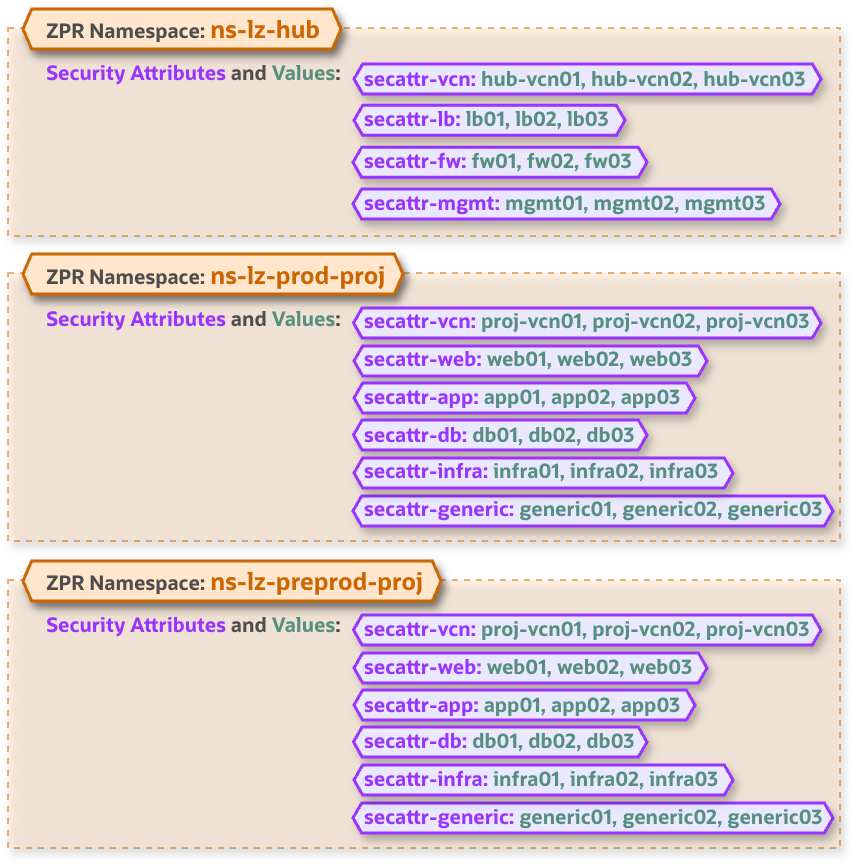
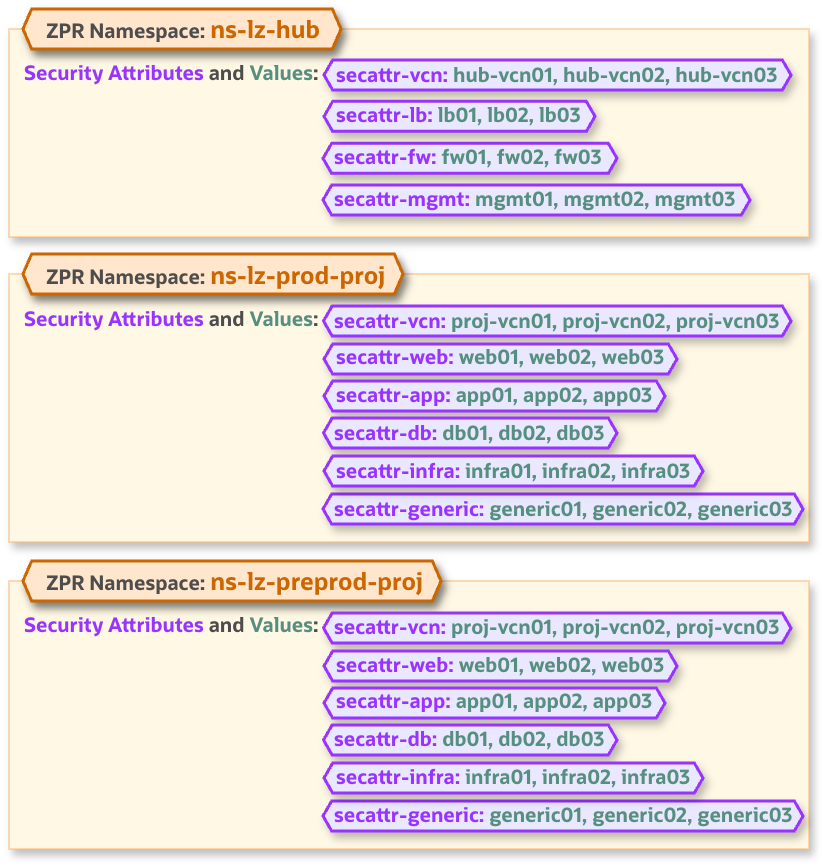
update

diff --git a/readme.md b/readme.md
@@ -39,19 +39,33 @@ Routing, Security Lists or NSGs, and OCI Network Firewall allow the traffic, but
 
 ### ZPR addon configuration and structure
 
+A ZPR Security Attribute Namespace is a logical container for a set of related security attributes. Namespaces help organize security attributes and provide a clear administrative boundary for managing and securing them.
 
-<img src="./zpr_structure.png" width="500" height="value">
+A Security Attribute is a label that can be assigned to supported OCI resources and referenced in ZPR policies to control communication between endpoints based on their assigned attributes.
+
+The diagrams below illustrate the **ZPR Namespace and Security Attribute structure** and show the exact configuration defined in `oneoe_zpr.json`, including each Namespace and the Security Attributes and their corresponding values contained within it.
+
+<img src="./zpr_struc.png" width="900" height="value">
+
+
+
+
+
 
 &nbsp;
 
-<img src="./zpr_ns_structure.png" width="500" height="value">
-
-&nbsp;
+The diagram below illustrates the ZPR addon configuration within the One-OE Landing Zone.
 
 <img src="./oneoe_hubb_zpr.png" width="800" height="value">
 
-### Deployment
+&nbsp;
 
+The ZPR addon provides the following segregation of duties:
+- **grp-lz-security-admin** manages the ZPR Namespaces and Security Attributes created in the cmp-lz-security compartment, as well as the ZPR Policies specific to the deployed One-OE Landing Zone.
+- **grp-security-admin** manages all ZPR Namespaces, Security Attributes, and ZPR Policies across the tenancy.
+- **grp-lz-network-admin**, **grp-lz-prod-proj1-admin** and **grp-lz-preprod-proj1-admin** can associate the relevant Security Attributes with the respective network resources and workloads they manage.
+
+The required IAM groups and permissions to enforce this segregation of duties are defined in `oneoe_iam.json` and are already included in the deployed One-OE Landing Zone.
 
 &nbsp;
 
